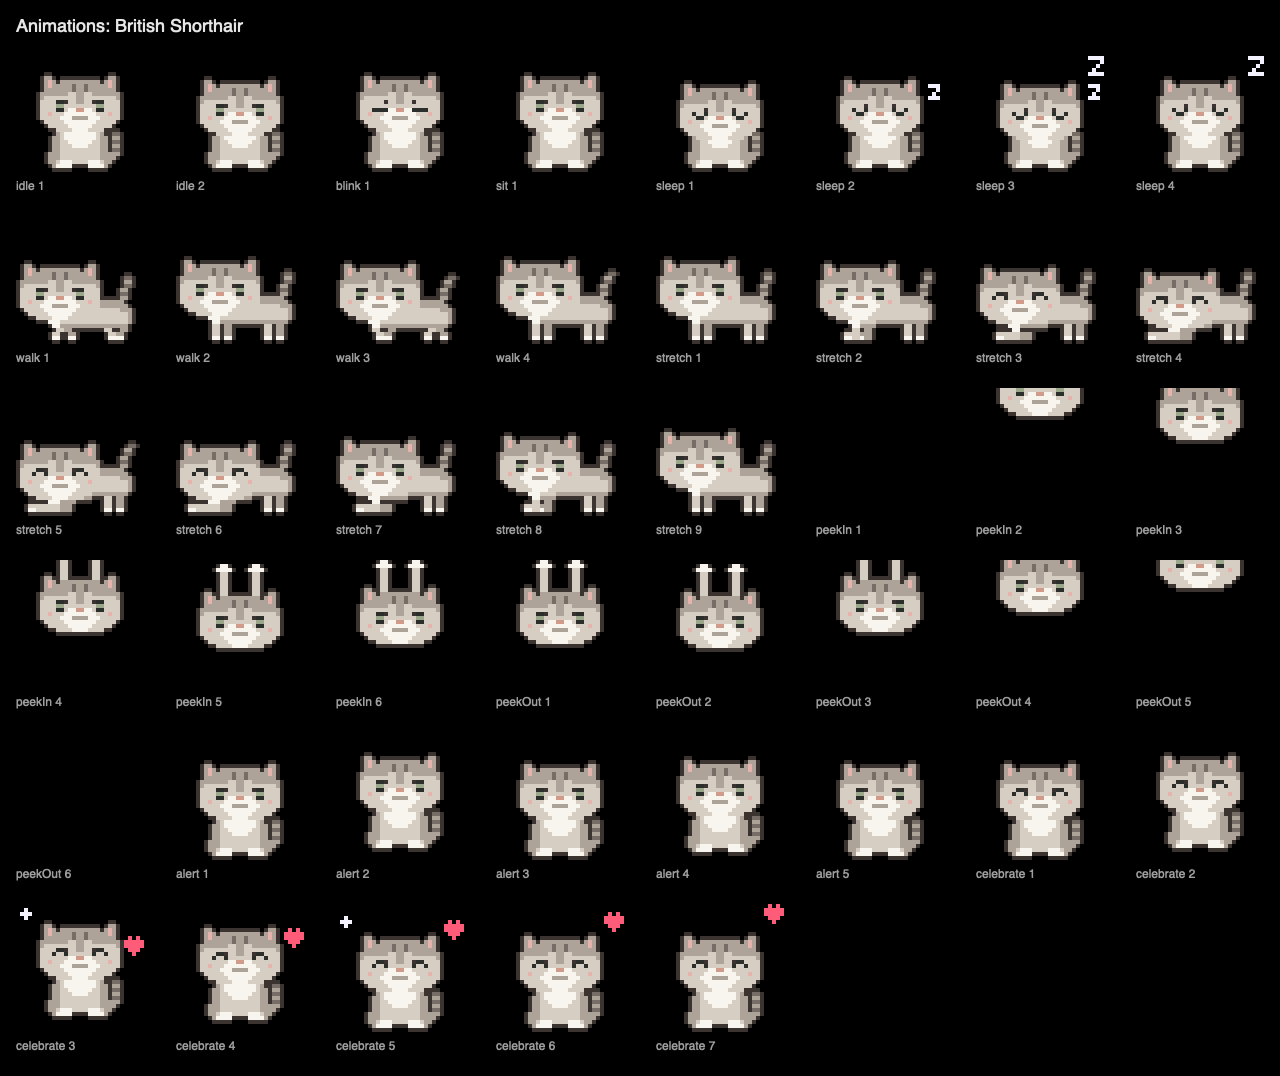
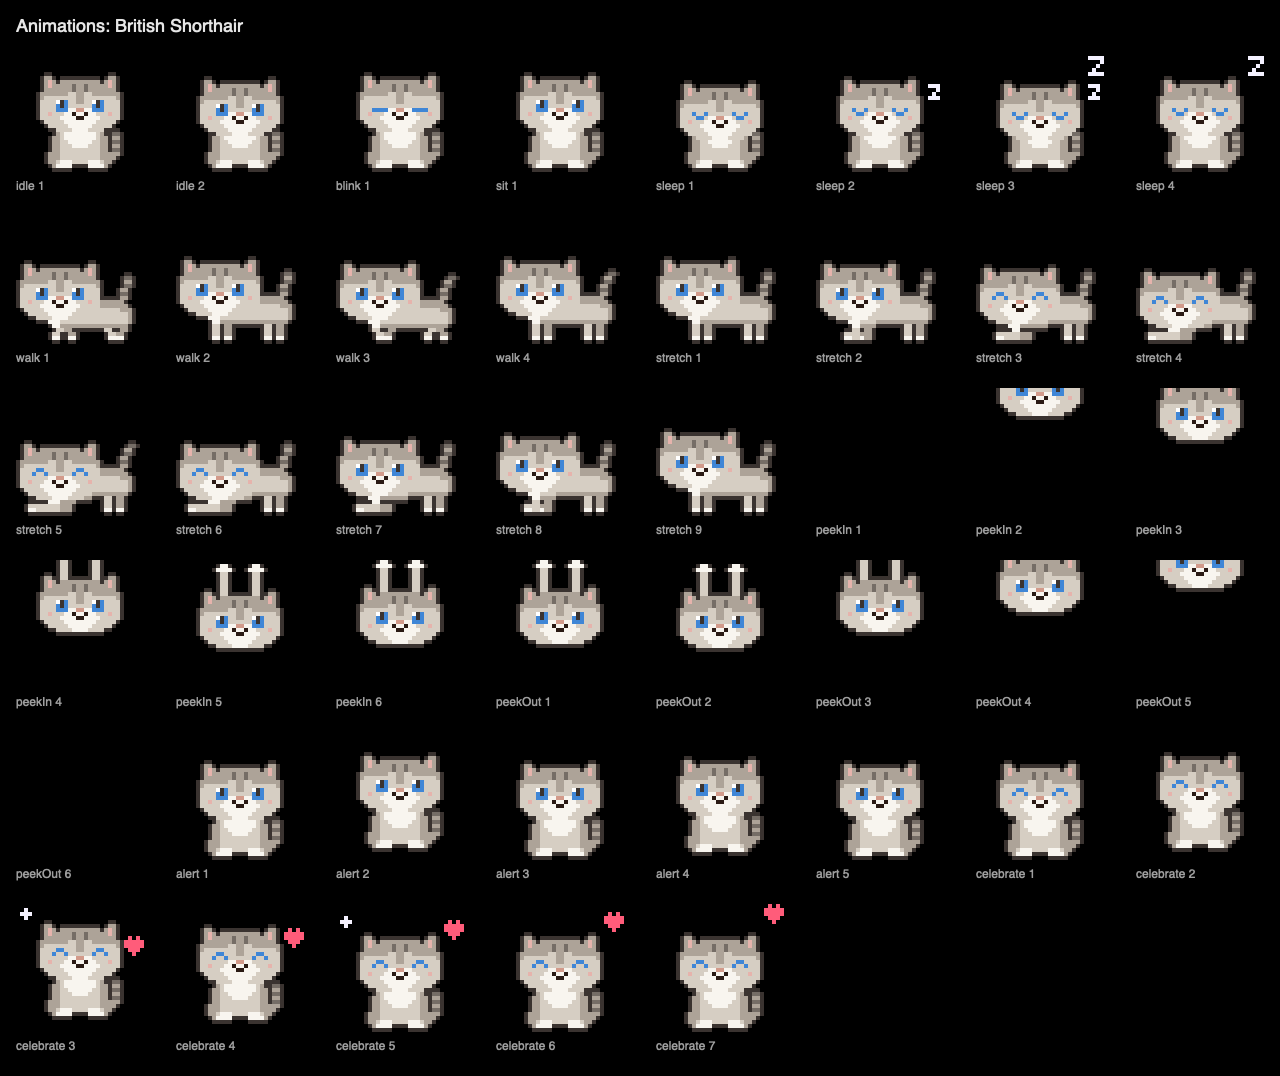
feat(pets): I redrew the British Shorthair sprite with open, round blue eyes (white highlight, tall dark pupil) and a small content smile. Blink and sleep frames still close the whole eye, the docs images and photo comparison are regenerated, and the build is warning-free with all tests passing.

diff --git a/Tests/TabbiKitCoreTests/PetsProfileTests.swift b/Tests/TabbiKitCoreTests/PetsProfileTests.swift
@@ -77,6 +77,44 @@ final class PetProfileTests: XCTestCase {
         XCTAssertLessThan(ringCount(PetComposer.sitting(.grayTabby)), 3, "plain cats keep their plain tail")
     }
 
+    func testTheBritishShorthairHasOpenBlueEyesThatStillClose() {
+        let palette = PetBreed.britishShorthair.palette
+        XCTAssertGreaterThan(Int(palette[.eye].blue), Int(palette[.eye].red) + 80, "a clear blue iris")
+        XCTAssertGreaterThan(palette[.eyeLight].luminance, 0.9, "a white highlight")
+
+        // Open eyes: one highlight per eye, each beside a dark pupil and
+        // above the blue iris.
+        func highlights(_ canvas: PetCanvas) -> [(x: Int, y: Int)] {
+            (0..<canvas.height).flatMap { y in
+                (0..<canvas.width).filter { canvas[$0, y] == .eyeLight }.map { (x: $0, y: y) }
+            }
+        }
+        let clips = PetClipSet(profile: PetProfile(name: "", breed: .britishShorthair))
+        for animation in [PetAnimation.idle, .sit, .walk, .alert] {
+            for frame in clips[animation].frames {
+                let sparkles = highlights(frame.canvas)
+                XCTAssertEqual(sparkles.count, 2, "\(animation)")
+                for sparkle in sparkles {
+                    XCTAssertEqual(frame.canvas[sparkle.x + 1, sparkle.y], .outline, "pupil beside the highlight")
+                    XCTAssertEqual(frame.canvas[sparkle.x, sparkle.y + 1], .eye, "iris below the highlight")
+                }
+            }
+        }
+        // Blinking and sleeping close the whole eye, pupil included.
+        for animation in [PetAnimation.blink, .sleep] {
+            for frame in clips[animation].frames {
+                XCTAssertTrue(highlights(frame.canvas).isEmpty, "\(animation)")
+            }
+        }
+        let open = PetComposer.sitting(.britishShorthair)
+        let blink = PetComposer.sitting(.britishShorthair, pose: PetPose(eyes: .closed))
+        for sparkle in highlights(open) {
+            for y in sparkle.y..<sparkle.y + 2 {
+                XCTAssertNotEqual(blink[sparkle.x + 1, y], .outline, "no pupil left floating in a closed eye")
+            }
+        }
+    }
+
     func testStarterMatchesTheChosenSpecies() {
         for species in PetSpecies.allCases {
             let starter = PetProfile.starter(species)

diff --git a/Sources/TabbiKitCore/Pets/Art/EffectArt.swift b/Sources/TabbiKitCore/Pets/Art/EffectArt.swift
@@ -6,7 +6,8 @@ import Foundation
 /// free of the pet instead of growing a border.
 enum EffectArt {
     /// Eye states are 4x3, centered on a 2x3 open eye (one pixel of margin
-    /// on each side), so they work for every face.
+    /// on each side), so they work for every face. A 3-wide eye keeps one
+    /// pixel of margin on its cheek side.
     static let eyesClosed = SpriteGrid(art: """
         ....
         ....
@@ -93,18 +94,26 @@ enum EffectArt {
                 for x in 0..<face.width where face[x, y] == .role(.blush) { result[x, y] = .empty }
             }
         }
-        let isEye: (SpriteCell) -> Bool = { $0 == .role(.eye) || $0 == .role(.eyeLight) }
-        // Left edges of each 2-wide eye on the eye row.
+        // A pupil drawn in the outline color is part of the eye it sits in.
+        let isEye: (SpriteCell) -> Bool = {
+            $0 == .role(.eye) || $0 == .role(.eyeLight) || $0 == .role(.outline)
+        }
+        // Left edges of each eye on the eye row; most eyes are 2 wide, a few 3.
         let lefts = (0..<face.width).filter { x in
             isEye(face[x, eyeRow]) && (x == 0 || !isEye(face[x - 1, eyeRow]))
         }
         for left in lefts {
+            let width = max(2, (left..<face.width).prefix { isEye(face[$0, eyeRow]) }.count)
             for y in eyeRow..<min(face.height, eyeRow + 3) {
-                for x in left..<min(face.width, left + 2) where isEye(face[x, y]) { result[x, y] = .empty }
+                for x in left..<min(face.width, left + width) where isEye(face[x, y]) { result[x, y] = .empty }
             }
+            // The overlay's spare pixel goes toward the cheek: left of a left
+            // eye, right of a right eye.
+            let isRightEye = width > 2 && left * 2 + width > face.width
+            let start = isRightEye ? left : left - 1
             for y in 0..<overlay.height {
                 for x in 0..<overlay.width where overlay[x, y] != .empty {
-                    let fx = left - 1 + x, fy = eyeRow + y
+                    let fx = start + x, fy = eyeRow + y
                     if fx >= 0, fx < face.width, fy < face.height { result[fx, fy] = overlay[x, y] }
                 }
             }

diff --git a/Sources/TabbiKitCore/Pets/Art/CatArt.swift b/Sources/TabbiKitCore/Pets/Art/CatArt.swift
@@ -41,9 +41,9 @@ enum CatArt {
         ....BBBBmmmmBBBB....
         """)
 
-    /// British Shorthair face: heavy half-closed lids over gray-green eyes
-    /// (the lid is the eye color, the iris the eye light) for its
-    /// unimpressed look, and a small nose over a flat mouth.
+    /// British Shorthair face: big round 3x3 blue eyes, each with a white
+    /// highlight and a tall pupil drawn in the outline color (blinking clears
+    /// it with the rest of the eye), and a small nose over a "u" smile.
     static let faceRound = SpriteGrid(art: """
         ....................
         ....................
@@ -52,11 +52,11 @@ enum CatArt {
         ....................
         ....................
         ....................
-        ....EEO......OEE....
-        ....LL........LL....
-        ....EE...NN...EE....
-        ..P..............P..
-        ........SSSS........
+        ....LOE......LOE....
+        ....EOE......EOE....
+        ....EEE..NN..EEE....
+        ..P.....R..R.....P..
+        .........RR.........
         ....................
         ....................
         ....................

diff --git a/Sources/TabbiKitCore/Pets/PetBreed.swift b/Sources/TabbiKitCore/Pets/PetBreed.swift
@@ -128,9 +128,9 @@ public enum PetBreed: String, CaseIterable, Codable, Sendable {
                                .belly: c("#FBF4E8"), .eye: c("#3E8FD8"), .outline: c("#3A2A22")])
         case .britishShorthair:
             // Shaded silver: pale silver-beige with a taupe back, white chin
-            // and chest, gray-green eyes, and a pink-tan nose.
+            // and chest, clear blue eyes, and a pink-tan nose.
             return PetPalette([.furBase: c("#D6CEC3"), .furShade: c("#ADA398"), .furAccent: c("#756D66"),
-                               .belly: c("#F8F5EF"), .eye: c("#2C2E2B"), .eyeLight: c("#9AA889"),
+                               .belly: c("#F8F5EF"), .eye: c("#3F86D6"), .eyeLight: c("#FFFFFF"),
                                .nose: c("#D29A8A"), .blush: c("#E6B3AC"), .outline: c("#3A3330")])
         case .goldenRetriever:
             return PetPalette([.furBase: c("#E6AE52"), .furShade: c("#C98C36"), .furAccent: c("#F3CB82"),

diff --git a/docs/study/pets.md b/docs/study/pets.md
@@ -150,6 +150,7 @@ Each frame is the sitting composition in a `PetPose`, so every breed and costume
 | `lift` | Raises the whole pet off the baseline, for hops |
 
 Eye states live in `EffectArt` as 4x3 grids centered on the 2x3 open eye.
+A 3-wide open eye (the British Shorthair's) gets the spare pixel on its cheek side, and a pupil drawn in the outline color inside an eye is cleared with it.
 The composer finds the open eyes on the face's eye row, clears them so the head's fur shows through, and stamps the new state, so a new face only needs its open-eyed version.
 Sleepy eyes also close the mouth: blush pixels below the cheek row (the eye row + 3) are cleared, so a dog's panting tongue tucks away and its nose-colored mouth corners read as a closed "w".
 Draw a tongue with the blush role below the cheek row and it will hide itself during sleep.
@@ -282,9 +283,10 @@ It goes by "British Shorthair" until the user names it, and the Closet asks them
 
 What makes this cat recognizable, and where each part lives:
 
-- Coloring (`PetBreed.palette`): pale silver-beige fur, a taupe shade for the crown, back and flanks, a dark taupe accent for ticking and tail rings, a white muzzle, chin, chest and paws, a pink-tan nose, and gray-green eyes.
+- Coloring (`PetBreed.palette`): pale silver-beige fur, a taupe shade for the crown, back and flanks, a dark taupe accent for ticking and tail rings, a white muzzle, chin, chest and paws, a pink-tan nose, and clear blue eyes with white highlights.
 - Head (`CatArt.headRound`): small rounded ears set wide apart, a taupe crown with faint ticking that runs down the forehead, and full cheeks around the white muzzle.
-- Face (`CatArt.faceRound`): heavy dark lids over 2x3 eyes, extended toward the nose, for the half-lidded "unimpressed" look, and a flat mouth.
+- Face (`CatArt.faceRound`): big, open 3x3 eyes (a blue iris around a tall dark pupil, with a white highlight in the top corner) and a small "u" smile under the nose.
+  The maintainer asked for open, cute blue eyes rather than the photo's half-lidded look, so this is the one place the sprite departs from the reference.
 - Body (`CatArt.bodyRound`, `WalkArt.roundCatTorso`, `WalkArt.roundCatTail`): taupe flanks and back with ticking, full haunches, and a thick tail ringed with dark bands.
   These grids have the same size as the plain cat's, so every costume fits without new art.
 
@@ -328,7 +330,7 @@ Dogs need more, because their ears and snouts are what make them recognizable at
 | Shape | Breeds | What sets it apart |
 | --- | --- | --- |
 | `cat` | most cats | pointed ears, tabby stripe zones |
-| `roundCat` | British Shorthair | small wide-set ears, round cheeks, half-lidded eyes, stocky body, ringed tail |
+| `roundCat` | British Shorthair | small wide-set ears, round cheeks, big blue eyes, stocky body, ringed tail |
 | `floppyDog` | Labrador, Beagle | hanging ears beside a rounded skull |
 | `fluffyDog` | Golden Retriever | long feathered ears |
 | `batEaredDog` | French Bulldog | big rounded bat ears, broad face |
